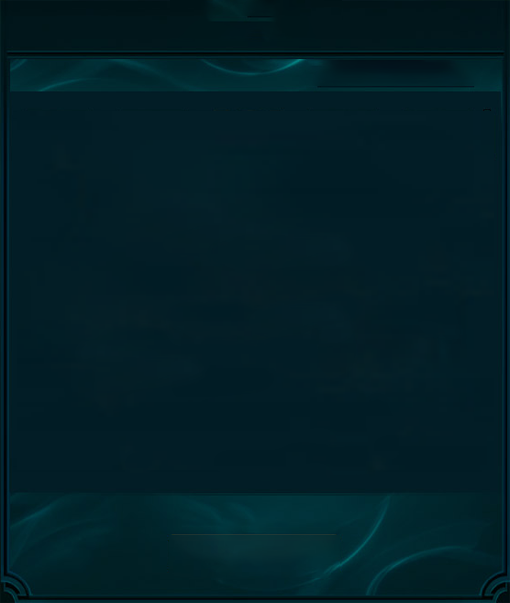
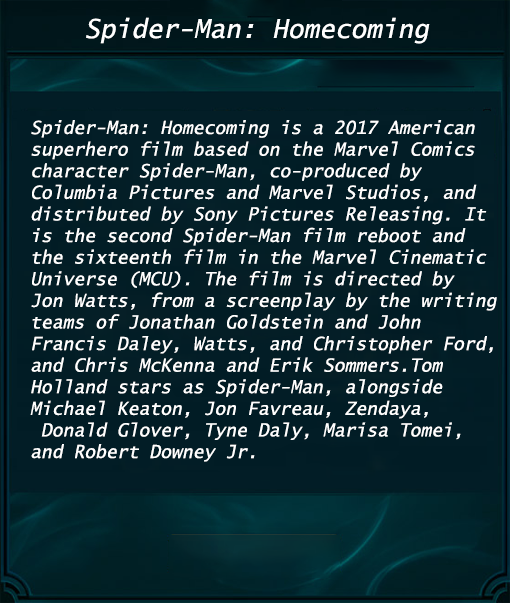
Done Detail Film

Changed region(s): [[0.0588, 0.1791, 0.9706, 0.7761], [0.5294, 0.0299, 0.8529, 0.0896], [0.1765, 0.0299, 0.5, 0.0896]]

diff --git a/Index.html b/Index.html
@@ -7,7 +7,7 @@
     <title>World Movie</title>
     <script src="animation.js"></script>
     <script type="text/javascript">
-    
+     var movesucess=false;
         function changeImage(){
             var image = document.getElementById("bigImagePoster");
            // var title = document.getElementById("title");
@@ -17,15 +17,20 @@
             document.getElementById("Title").innerHTML = res;
             var message = "Year release: 2018";
             var messageLabel = document.getElementById("messageLabel");
+            var image1 = document.getElementById("Describe");
+            image1.src = "./Images/Describe_Bar.png";
             Type();
             
         }
+
         function changeImage1(){
             var image = document.getElementById("bigImagePoster");
             image.src = "./Images/poster_annabelle.png";
             var str = document.getElementById("Title").innerHTML; 
             var res = "Annabelle";
             document.getElementById("Title").innerHTML = res;
+            var image1 = document.getElementById("Describe");
+            image1.src = "./Images/Describe_Bar_Annabelle.png";
             Type1();
         }
         function changeImage2(){
@@ -34,6 +39,8 @@
             var str = document.getElementById("Title").innerHTML; 
             var res = "Avatar";
             document.getElementById("Title").innerHTML = res;
+            var image1 = document.getElementById("Describe");
+            image1.src = "./Images/Describe_Bar_Avatar.png";
             Type2();
         }
         function changeImage3(){
@@ -42,6 +49,8 @@
             var str = document.getElementById("Title").innerHTML; 
             var res = "Gold of egypt";
             document.getElementById("Title").innerHTML = res;
+            var image1 = document.getElementById("Describe");
+            image1.src = "./Images/Describe_Bar_GodsofEgypt.png";
             Type3();
         }
         function PlayVideo(){
@@ -209,20 +218,49 @@
               msgCount+=1;
            }
         }
+
+        function frame1()
+        {
+            var elem1= document.getElementById("Slide_Up_Button");  
+            var pos1 = 0;
+            var id1 = setInterval(frame, 5);
+            function frame1() {
+                if (pos1 == 900) {
+                   clearInterval(id1);
+                } else {
+                    pos1++; 
+                    elem1.style.top = pos1 + 'px'; 
+                }
+             }
+        }
         function Move()
         {
-            var elem = document.getElementById("Describe");   
+            var elem = document.getElementById("Describe");  
+            var elem1= document.getElementById("Slide_Up_Button");  
+            elem.style="display: true";
+            elem1.style="display: true";
             var pos = 0;
             var id = setInterval(frame, 5);
             function frame() {
                 if (pos == 678) {
-                clearInterval(id);
+                   // elem1.style.top+=50;
+                   clearInterval(id);
+                   
                 } else {
-                pos++; 
-                elem.style.top = pos + 'px'; 
+                    pos++; 
+                    elem.style.top = pos + 'px'; 
+                    elem1.style.top = 1.795*pos + 'px'; 
                 }
-  }
+            }
         }
+        function MoveUp()
+        {
+            var elem = document.getElementById("Describe");  
+            var elem1= document.getElementById("Slide_Up_Button");  
+           elem.style.visibility='hidden';
+           elem1.style.visibility='hidden';
+        }
+       
         
         timer1 = setInterval("textFunc(messageLabel,message)", 150); // Every 150 milliseconds
         var video = document.getElementById('spider_man_video');
@@ -246,10 +284,6 @@
     <div class="body">
         <div class="Movie_Title">
             <p id="Title" onclick="changeImage();">Spider-Man HomeComing</p>
-            
-        </div>
-        <div class="Decribe_Film">
-            <img src="./Images/Describe_Bar.png" alt="describe" id="Describe">
         </div>
         
         <div class="Slide_Button">
@@ -293,7 +327,7 @@
           </div>
         </div>
         <div class="Movie_List_Title4" onclick="changeImage3();">          
-            <p>Gods of Gypt</p>
+            <p>Gods of Egypt</p>
             <p1>Adventure</p1>
           <div class="Movie_tag2">
             <img src="./Images/icon_film.png" alt="small_iconfilm1" id="small_icon_film1">
@@ -305,7 +339,6 @@
 
 
         <div class="Movie_List_Detail">
-            
             <div class="Movie_List_Detail1">
                 <p id="messageLabel">Year Realease: 2017</p>
                 <img src="./Images/img_detail_line1.png" alt="img_detail_line1" id="img_detail_line1">
@@ -322,7 +355,12 @@
                 <img src="./Images/img_detail_line2.png" alt="img_detail_line2" id="img_detail_line2">
             </div>
         </div>
-        
+
+        <div class="Decribe_Film">
+            <img src="./Images/Describe_Bar.png" alt="describe" id="Describe">
+            <img src="./Images/SlideButtonUp.png" alt="slidebuttondown" id="Slide_Up_Button" onclick="MoveUp();">
+       
+        </div>
         
         <!-- <div class="Reveal" style="position:absolute;left:1100px;top:105px;width: 260px;height:500px">
         	<div class="Detail"  id="detail">

diff --git a/style.css b/style.css
@@ -16,7 +16,7 @@
 .centerInfo {
     position: absolute;
     top: 130px;
-    left: 500px;
+    left: 475px;
     background: transparent;
 }
 
@@ -30,7 +30,13 @@
 #Describe{
     position: absolute;
     margin-top: -598px;
-    margin-left: 456px;
+    margin-left: 430px;
+}
+
+#Slide_Up_Button{
+    position: absolute;
+    margin-top:-620px;
+    left:678px;
 }
 
 #bigImageBorder {
@@ -224,6 +230,11 @@
     top: 12px;
     width: 527px;
     height: 67px;
+}
+
+.SlideButtonDown{
+    position: absolute;
+    top: 127px;
 }
 
 .Movie_List_Title1{
@@ -422,7 +433,7 @@
     display: flex;
     position: absolute;
     top: 195px;
-    left: 918px;
+    left: 894px;
     width: 450px;
     height: 500px;
   
